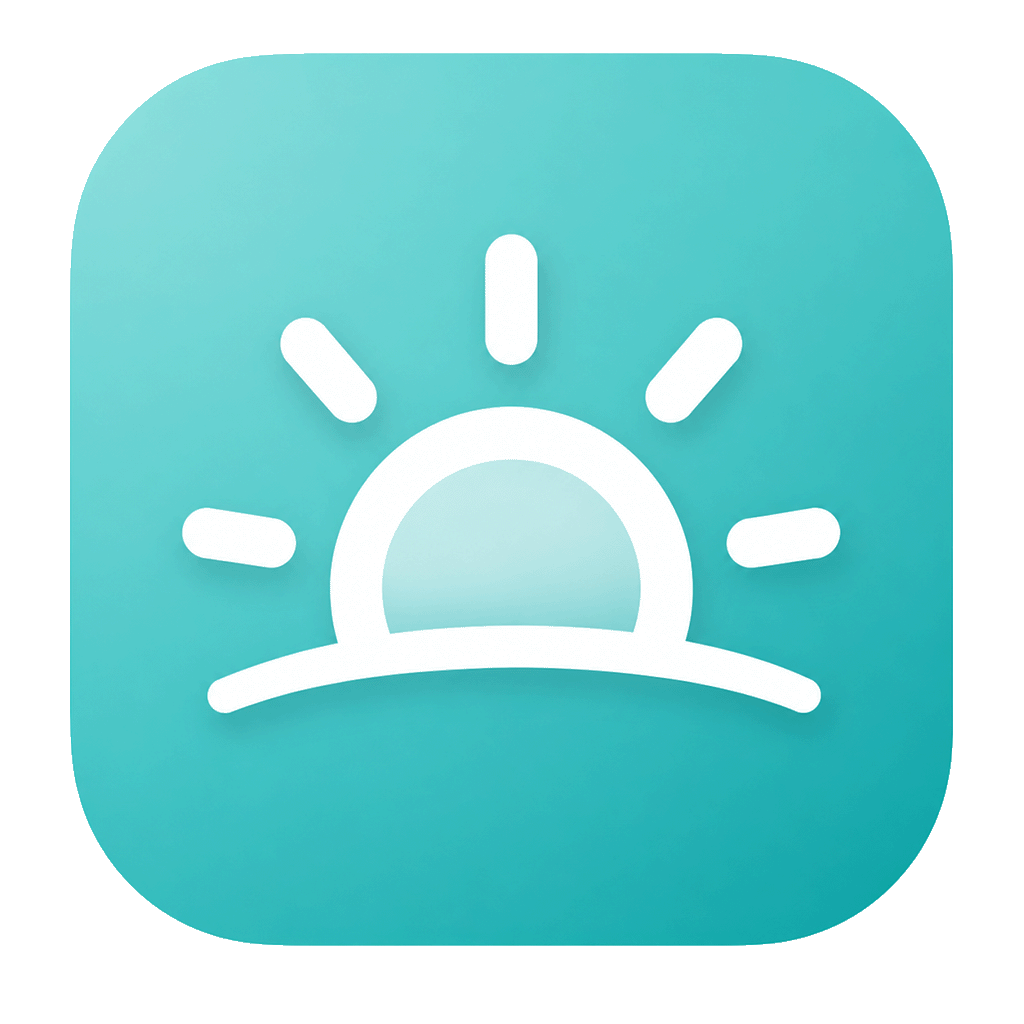
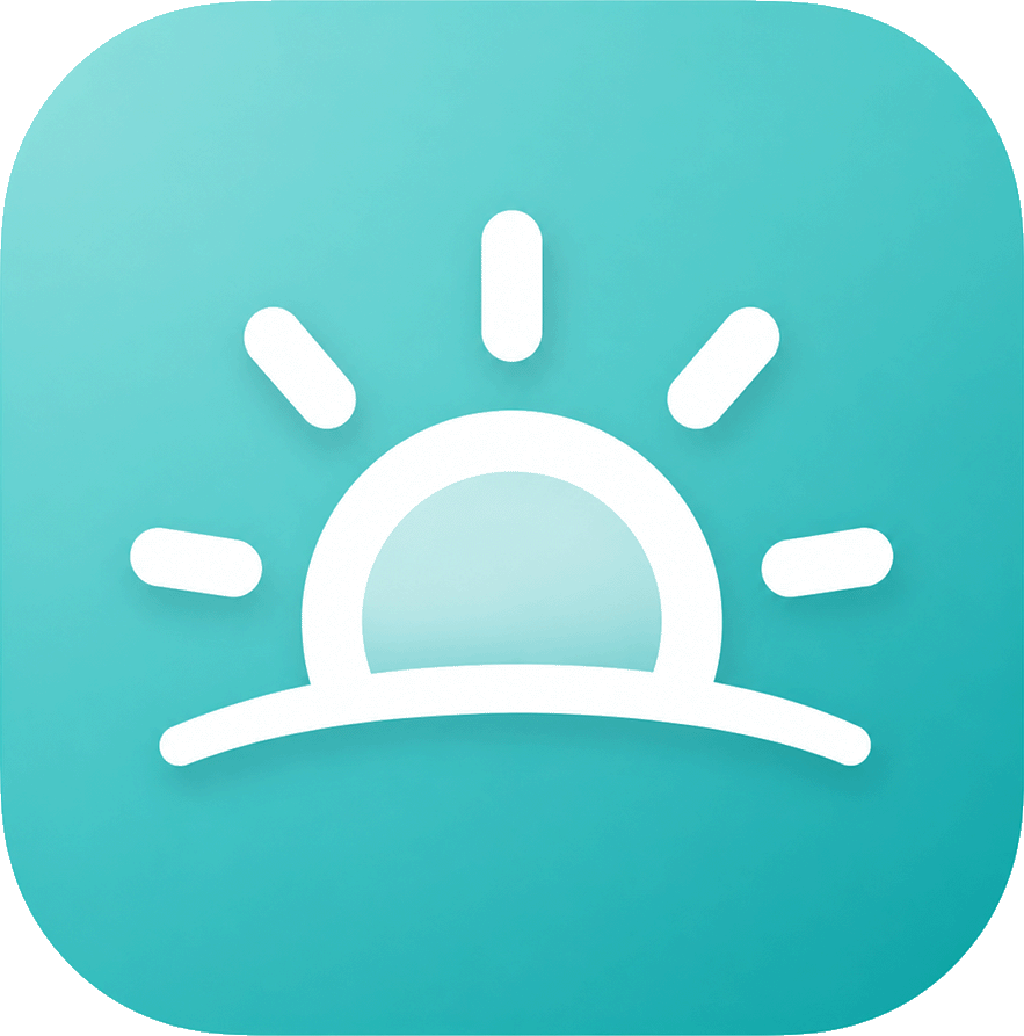
Android support

diff --git a/src/components/InstallPrompt.tsx b/src/components/InstallPrompt.tsx
@@ -25,6 +25,10 @@ function isIosSafariLike(): boolean {
   return isIos && isWebKit && !isOtherIosBrowser;
 }
 
+function isAndroidLike(): boolean {
+  return /Android/i.test(window.navigator.userAgent);
+}
+
 const InstallPrompt: FC = () => {
   const [installEvent, setInstallEvent] = useState<BeforeInstallPromptEvent | null>(null);
   const [dismissed, setDismissed] = useState<boolean>(() => {
@@ -37,6 +41,12 @@ const InstallPrompt: FC = () => {
       return false;
     }
     return isIosSafariLike();
+  }, []);
+  const showAndroidHint = useMemo(() => {
+    if (typeof window === "undefined") {
+      return false;
+    }
+    return isAndroidLike();
   }, []);
 
   useEffect(() => {
@@ -59,7 +69,8 @@ const InstallPrompt: FC = () => {
     };
   }, []);
 
-  const shouldShow = !installed && !dismissed && (installEvent !== null || showIosHint);
+  const shouldShow =
+    !installed && !dismissed && (installEvent !== null || showIosHint || showAndroidHint);
 
   if (!shouldShow) {
     return null;
@@ -82,6 +93,13 @@ const InstallPrompt: FC = () => {
     });
   };
 
+  const hintText =
+    installEvent !== null
+      ? "安装后可像 App 一样打开；数据仍只保存在这台手机本地。"
+      : showIosHint
+        ? "在 Safari 中点分享按钮，再选择“添加到主屏幕”。数据仍只保存在这台手机本地。"
+        : "在 Android 浏览器菜单中选择“安装应用”或“添加到主屏幕”。数据仍只保存在这台手机本地。";
+
   return (
     <aside className="mobile-install-prompt lg:hidden" aria-label="安装 MyDay">
       <div className="flex min-w-0 items-start gap-3">
@@ -94,11 +112,7 @@ const InstallPrompt: FC = () => {
         </div>
         <div className="min-w-0 flex-1">
           <p className="text-sm font-bold text-slate-950">把 MyDay 放到手机桌面</p>
-          <p className="mt-1 text-xs leading-5 text-slate-500">
-            {installEvent
-              ? "安装后可像 App 一样打开；数据仍只保存在这台手机本地。"
-              : "在 Safari 中点分享按钮，再选择“添加到主屏幕”。数据仍只保存在这台手机本地。"}
-          </p>
+          <p className="mt-1 text-xs leading-5 text-slate-500">{hintText}</p>
         </div>
       </div>
       <div className="mt-3 flex items-center gap-2">

diff --git a/index.html b/index.html
@@ -2,14 +2,16 @@
 <html lang="zh-CN">
   <head>
     <meta charset="UTF-8" />
-    <link rel="icon" type="image/png" sizes="1024x1024" href="./myday-icon-1024.png" />
-    <link rel="apple-touch-icon" href="./myday-icon-1024.png" />
+    <link rel="icon" type="image/svg+xml" href="./myday-mark.svg" />
+    <link rel="alternate icon" type="image/png" sizes="192x192" href="./myday-icon-192.png" />
+    <link rel="apple-touch-icon" sizes="180x180" href="./myday-icon-180.png" />
     <link rel="manifest" href="./manifest.webmanifest" />
     <meta
       name="viewport"
       content="width=device-width, initial-scale=1.0, viewport-fit=cover"
     />
     <meta name="theme-color" content="#0f766e" />
+    <meta name="application-name" content="MyDay" />
     <meta name="mobile-web-app-capable" content="yes" />
     <meta name="apple-mobile-web-app-capable" content="yes" />
     <meta name="apple-mobile-web-app-title" content="MyDay" />

diff --git a/public/sw.js b/public/sw.js
@@ -1,7 +1,11 @@
-const CACHE_NAME = "myday-static-v7";
+const CACHE_NAME = "myday-static-v9";
 const CORE_ASSETS = [
   "./",
   "./manifest.webmanifest",
+  "./myday-mark.svg",
+  "./myday-icon-180.png",
+  "./myday-icon-192.png",
+  "./myday-icon-512.png",
   "./myday-icon-1024.png",
 ];
 

diff --git a/README.md b/README.md
@@ -27,6 +27,8 @@ npm run build
 
 构建产物会输出到 `dist/`，可以部署到任意静态托管服务。项目使用相对资源路径和 Hash 路由，适合部署到 GitHub Pages、Vercel、Netlify 或任意子路径。
 
+Android 浏览器触发“安装应用 / 添加到主屏幕”通常要求生产环境 HTTPS 地址；用手机访问局域网里的 Vite 开发地址时，可能只能看到页面，不能触发原生安装提示。
+
 ## GitHub Pages 部署
 
 仓库包含 `.github/workflows/deploy.yml`。推送到 `main` 后，GitHub Actions 会自动构建并发布 `dist/`。
